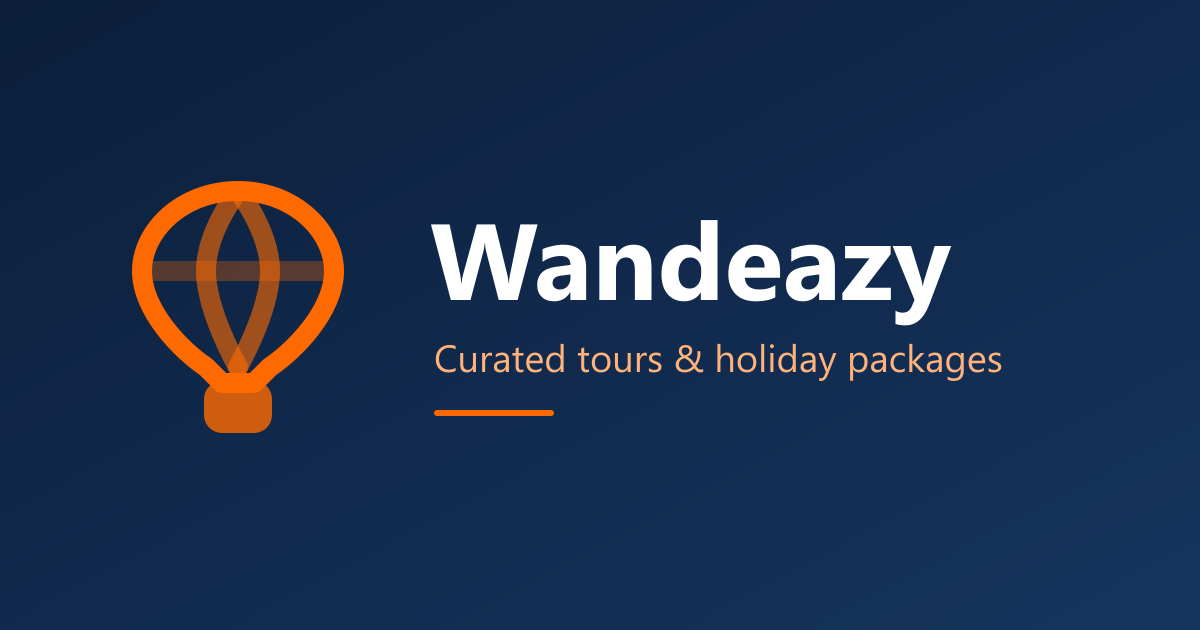
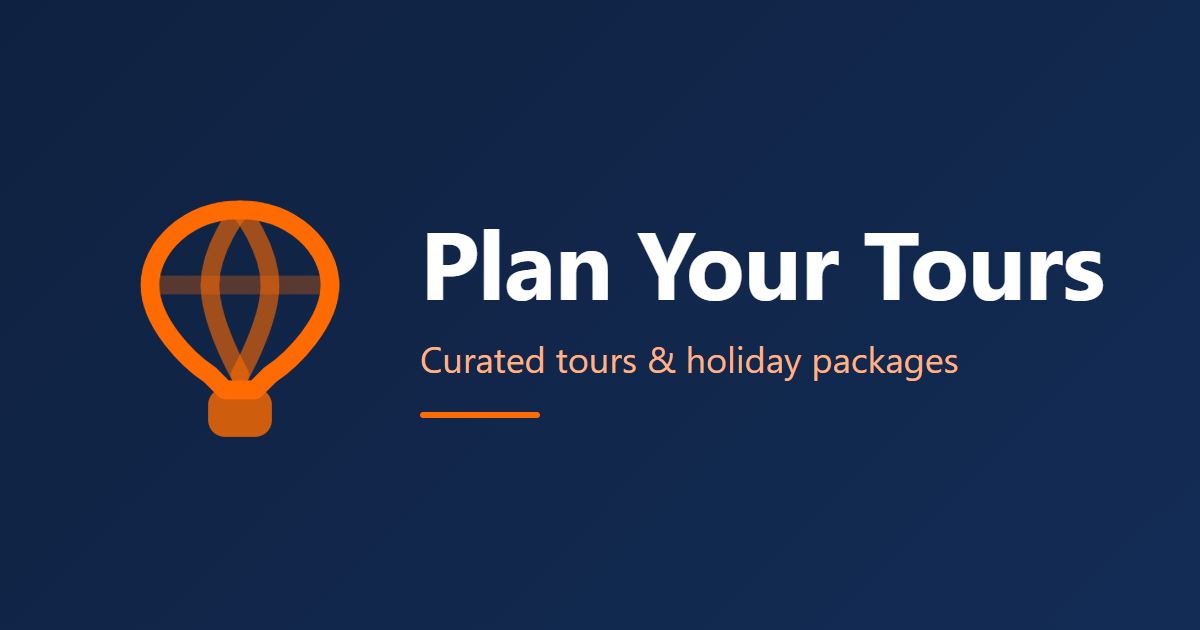
Rename the site to Plan Your Tours (planyourtours.com)
New name in every page title, description, legal text, email, payment window and the share image.
Logo text now comes from the APP/LOGO setting. Full link menu shows from 1280px wide so the longer name never collides.

diff --git a/client/scripts/prerender.ts b/client/scripts/prerender.ts
@@ -181,9 +181,9 @@ async function main() {
     pages.push({
         path: '/',
         title: 'Curated Tours & Holiday Packages',
-        description: 'Browse curated tours and holiday packages to destinations worldwide with Wandeazy. Compare day-by-day itineraries and inclusions, then book online securely.',
+        description: 'Browse curated tours and holiday packages to destinations worldwide with Plan Your Tours. Compare day-by-day itineraries and inclusions, then book online securely.',
         jsonLd: graph(websiteJsonLd()),
-        body: `<h1>Wandeazy: curated tours and holiday packages worldwide</h1>`
+        body: `<h1>Plan Your Tours: curated tours and holiday packages worldwide</h1>`
             + para('Browse curated tours and holiday packages, compare day-by-day itineraries and inclusions, then book online securely.')
             + section('Destinations', list(destinations.map((d) => link(destinationPath(d), d.name))))
             + section('Collections', list(collections.map((c) => link(collectionPath(c), c.name))))
@@ -194,7 +194,7 @@ async function main() {
     pages.push({
         path: '/tours',
         title: 'All Tours & Holiday Packages',
-        description: 'Compare every Wandeazy tour by destination, price, duration, travel style and traveller rating, then book online.',
+        description: 'Compare every tour by destination, price, duration, travel style and traveller rating, then book online.',
         jsonLd: tours.length ? graph(itemListJsonLd(tours.map((t) => ({ name: t.title, path: tourPath(t) })))) : undefined,
         body: `<h1>Find your next adventure</h1>${list(tours.map(tourLine))}`,
     });
@@ -231,7 +231,7 @@ async function main() {
     pages.push({
         path: '/destinations',
         title: 'Travel Destinations Worldwide',
-        description: 'Explore Wandeazy travel destinations around the world, each with its highlights, best time to visit and the tours you can book there.',
+        description: 'Explore travel destinations around the world, each with its highlights, best time to visit and the tours you can book there.',
         jsonLd: destinations.length ? graph(itemListJsonLd(destinations.map((d) => ({ name: d.name, path: destinationPath(d) })))) : undefined,
         body: `<h1>Explore the World</h1>${para('From iconic landmarks to hidden gems, discover the destinations that inspire wanderlust.')}`
             + list(destinations.map((d) => `${link(destinationPath(d), d.name)}${d.continent ? ` — ${esc(d.continent)}` : ''}`)),
@@ -261,7 +261,7 @@ async function main() {
     pages.push({
         path: '/collections',
         title: 'Tour Collections by Travel Style',
-        description: 'Hand-picked Wandeazy tour collections grouped by travel style, such as beach getaways, adventure and trekking, culture, luxury and honeymoons.',
+        description: 'Hand-picked tour collections grouped by travel style, such as beach getaways, adventure and trekking, culture, luxury and honeymoons.',
         jsonLd: collections.length ? graph(itemListJsonLd(collections.map((c) => ({ name: c.name, path: collectionPath(c) })))) : undefined,
         body: `<h1>Our Collections</h1>${list(collections.map((c) => `${link(collectionPath(c), c.name)}${c.description ? ` — ${esc(summarize(c.description, 140))}` : ''}`))}`,
     });
@@ -272,7 +272,7 @@ async function main() {
         pages.push({
             path: collectionPath(c),
             title: `${c.name} Tours`,
-            description: summarize(c.description || `${c.name}: a hand-picked collection of Wandeazy tours.`),
+            description: summarize(c.description || `${c.name}: a hand-picked collection of our tours.`),
             image: c.coverImage,
             imageAlt: c.name,
             jsonLd: graph(collectionJsonLd({ ...c, tours: cTours }), breadcrumbJsonLd([{ name: 'Collections', path: '/collections' }, { name: c.name, path: collectionPath(c) }])),
@@ -283,7 +283,7 @@ async function main() {
     pages.push({
         path: '/blog',
         title: 'Travel Magazine: Guides & Tips',
-        description: 'Travel guides, packing lists, budget tips and food ideas from the Wandeazy travel magazine, written to help you plan your next trip.',
+        description: 'Travel guides, packing lists, budget tips and food ideas from the Plan Your Tours travel magazine, written to help you plan your next trip.',
         jsonLd: posts.length ? graph(itemListJsonLd(posts.map((p) => ({ name: p.title, path: articlePath(p) })))) : undefined,
         body: `<h1>Travel Magazine</h1>${para('Stories, tips, and guides to inspire your next adventure.')}`
             + list(posts.map((p) => `${link(articlePath(p), p.title)}${p.excerpt ? ` — ${esc(summarize(p.excerpt, 160))}` : ''}`)),
@@ -312,8 +312,8 @@ async function main() {
     pages.push({
         path: '/about',
         title: 'About Us',
-        description: 'Who Wandeazy is, how we put together our tours and what you can expect when you book a trip with us.',
-        body: `<h1>${esc(about.heroHeadline || 'About Wandeazy')}</h1>${para(about.heroSubtext)}`
+        description: 'Who we are, how we put together our tours and what you can expect when you book a trip with us.',
+        body: `<h1>${esc(about.heroHeadline || 'About Plan Your Tours')}</h1>${para(about.heroSubtext)}`
             + section('Our Story', para(about.storyParagraph1) + para(about.storyParagraph2))
             + section('What we stand for', (about.values ?? []).map((v) => `<h3>${esc(v.title)}</h3>${para(v.description)}`).join('')),
     });
@@ -321,7 +321,7 @@ async function main() {
     pages.push({
         path: '/contact',
         title: 'Contact Us',
-        description: 'Ask about a booking or plan a custom trip with Wandeazy. Send a message or email us and a travel specialist replies within 24 hours.',
+        description: 'Ask about a booking or plan a custom trip with Plan Your Tours. Send a message or email us and a travel specialist replies within 24 hours.',
         body: `<h1>How can we help?</h1>${para('Plan a trip, ask about a booking or send us a question. A travel specialist replies within 24 hours.')}`
             + list([
                 ...(settings.contactEmail ? [`Email: ${link(`mailto:${settings.contactEmail}`, settings.contactEmail)}`] : []),
@@ -348,14 +348,14 @@ async function main() {
     pages.push({
         path: '/faq',
         title: 'Frequently Asked Questions',
-        description: 'How to book a Wandeazy tour, free cancellation up to 24 hours before departure, accepted payments, what tour prices include, travel insurance and custom itineraries.',
+        description: 'How to book a tour with Plan Your Tours, free cancellation up to 24 hours before departure, accepted payments, what tour prices include, travel insurance and custom itineraries.',
         jsonLd: graph(faqJsonLd(faqs)),
         body: `<h1>Frequently Asked Questions</h1>${para('Everything you need to know before you travel.')}${faqHtml.replace(/<h3>/g, '<h2>').replace(/<\/h3>/g, '</h2>')}`,
     });
 
     for (const [p, title, description, sections] of [
-        ['/privacy', 'Privacy Policy', 'How Wandeazy collects, uses, shares and protects your personal information when you browse, sign up or book a tour.', PRIVACY_SECTIONS],
-        ['/terms', 'Terms of Service', 'The terms for using Wandeazy and booking tours, including payments, cancellations and refunds, and your responsibilities as a traveller.', TERMS_SECTIONS],
+        ['/privacy', 'Privacy Policy', 'How Plan Your Tours collects, uses, shares and protects your personal information when you browse, sign up or book a tour.', PRIVACY_SECTIONS],
+        ['/terms', 'Terms of Service', 'The terms for using Plan Your Tours and booking tours, including payments, cancellations and refunds, and your responsibilities as a traveller.', TERMS_SECTIONS],
     ] as const) {
         pages.push({
             path: p, title, description,
@@ -366,14 +366,14 @@ async function main() {
     if (settings.features?.flights) {
         pages.push({
             path: '/flights', title: 'Flights',
-            description: 'Search and book flights across India and around the world, linked to your Wandeazy trip.',
-            body: `<h1>Flights</h1>${para('Every airline in one search. Line your flights up with your Wandeazy tour.')}`,
+            description: 'Search and book flights across India and around the world, linked to your trip.',
+            body: `<h1>Flights</h1>${para('Every airline in one search. Line your flights up with your tour.')}`,
         });
     }
     if (settings.features?.hotels) {
         pages.push({
             path: '/hotels', title: 'Hotels',
-            description: 'Hand-picked hotels across India and the world, right next to your Wandeazy tour.',
+            description: 'Hand-picked hotels across India and the world, right next to your tour.',
             body: `<h1>Hotels</h1>${para('From palace havelis to beachfront villas, find a stay right next to your tour.')}`,
         });
     }

diff --git a/client/src/components/Navbar.tsx b/client/src/components/Navbar.tsx
@@ -159,12 +159,12 @@ export const Navbar = () => {
 
             <nav aria-label="Main" className={cn(navClasses, "relative")}>
                 <div className={containerClasses}>
-                    <div className="flex items-center gap-4 xl:gap-8 min-w-0">
+                    <div className="flex items-center gap-4 xl:gap-6 min-w-0">
                         <Logo light={!isScrolled && isTransparentHeader} className="scale-90 md:scale-100" />
 
                         {/* Desktop Menu */}
                         <div className={cn(
-                            "hidden lg:flex items-center gap-0.5 xl:gap-1 rounded-full p-1 transition-all duration-300",
+                            "hidden xl:flex items-center gap-0.5 xl:gap-1 rounded-full p-1 transition-all duration-300",
                             isOverlay
                                 ? "bg-white/10 backdrop-blur-md border border-white/25 shadow-lg shadow-black/10"
                                 : "bg-transparent border border-transparent"
@@ -198,7 +198,7 @@ export const Navbar = () => {
 
                         {/* Right Actions */}
                         <div className={cn(
-                            "hidden lg:flex items-center gap-1.5 xl:gap-2",
+                            "hidden xl:flex items-center gap-1.5 xl:gap-2",
                             isOverlay && "[&_button]:[text-shadow:0_1px_2px_rgba(0,0,0,0.35)]"
                         )}>
                             {/* Trip builder: always on offer, whatever links the admin sets */}
@@ -319,7 +319,7 @@ export const Navbar = () => {
                             aria-expanded={isMobileMenuOpen}
                             aria-controls="mobile-menu"
                             className={cn(
-                                "lg:hidden p-2 rounded-full transition-colors",
+                                "xl:hidden p-2 rounded-full transition-colors",
                                 isOverlay ? "hover:bg-white/15" : "hover:bg-slate-100"
                             )}
                             onClick={() => setIsMobileMenuOpen(!isMobileMenuOpen)}
@@ -337,7 +337,7 @@ export const Navbar = () => {
                             initial={{ opacity: 0, y: -20, scale: 0.95 }}
                             animate={{ opacity: 1, y: 0, scale: 1 }}
                             exit={{ opacity: 0, y: -20, scale: 0.95 }}
-                            className="absolute top-full mt-2 left-4 right-4 max-h-[calc(100dvh-6rem)] overflow-y-auto bg-white/95 backdrop-blur-xl shadow-2xl rounded-3xl border border-white/20 lg:hidden"
+                            className="absolute top-full mt-2 left-4 right-4 max-h-[calc(100dvh-6rem)] overflow-y-auto bg-white/95 backdrop-blur-xl shadow-2xl rounded-3xl border border-white/20 xl:hidden"
                         >
                             <div className="p-5 flex flex-col gap-1">
                                 {/* User header */}

diff --git a/client/src/pages/About.tsx b/client/src/pages/About.tsx
@@ -19,8 +19,8 @@ export const AboutPage = () => {
 
     const heroImage = about?.heroImage || "https://images.unsplash.com/photo-1488646953014-85cb44e25828?w=1600&q=80";
     const heroHeadline = about?.heroHeadline || "We turn wanderlust into unforgettable journeys";
-    const heroSubtext = about?.heroSubtext || "Wandeazy was born from a simple belief: extraordinary travel should be effortless, personal, and within reach for everyone.";
-    const storyParagraph1 = about?.storyParagraph1 || "Wandeazy puts together tours to destinations around the world and lets you book them online in a few steps, with secure payment and free cancellation up to 24 hours before departure.";
+    const heroSubtext = about?.heroSubtext || "Plan Your Tours was born from a simple belief: extraordinary travel should be effortless, personal, and within reach for everyone.";
+    const storyParagraph1 = about?.storyParagraph1 || "Plan Your Tours puts together tours to destinations around the world and lets you book them online in a few steps, with secure payment and free cancellation up to 24 hours before departure.";
     const storyParagraph2 = about?.storyParagraph2 || "Every tour page shows the day-by-day itinerary and exactly what is and isn't included, so you know what you are booking. Want something different? Tell us and we'll plan a custom trip with you.";
     // Admin-written stats win; otherwise real numbers, never made-up ones
     const stats = (about?.stats?.length ?? 0) > 0 ? about!.stats : liveStats(highlights?.stats);
@@ -36,7 +36,7 @@ export const AboutPage = () => {
         <div className="bg-background min-h-screen">
             <PageTitle
                 title="About Us"
-                description="Who Wandeazy is, how we put together our tours and what you can expect when you book a trip with us."
+                description="Who we are, how we put together our tours and what you can expect when you book a trip with us."
             />
 
             {/* Hero */}

diff --git a/server/src/config/index.js b/server/src/config/index.js
@@ -73,9 +73,9 @@ const config = {
         secure:      true,
         user:        'resend',
         apiKey:      e.RESEND_API_KEY,
-        fromName:    e.EMAIL_FROM_NAME       || 'Wandeazy',
+        fromName:    e.EMAIL_FROM_NAME       || 'Plan Your Tours',
         // Must be on the domain verified in Resend
-        fromAddress: e.EMAIL_FROM_ADDRESS    || 'noreply@wandeazy.com',
+        fromAddress: e.EMAIL_FROM_ADDRESS    || 'noreply@planyourtours.com',
         // Where customer replies go (a real inbox). Blank = replies go to the from address.
         replyTo:     e.EMAIL_REPLY_TO        || '',
         brandColor:  e.EMAIL_BRAND_COLOR     || '#0F172A',
@@ -91,7 +91,7 @@ const config = {
         keySecret:     e.RAZORPAY_KEY_SECRET      || '',
         webhookSecret: e.RAZORPAY_WEBHOOK_SECRET  || '',
         // Shown at the top of the Razorpay payment window
-        brandName:     e.RAZORPAY_BRAND_NAME      || 'Wandeazy',
+        brandName:     e.RAZORPAY_BRAND_NAME      || 'Plan Your Tours',
     },
 
     // Stripe (Developers → API keys / Webhooks). The publishable key reaches the browser through the API.
@@ -141,7 +141,7 @@ const config = {
 
     mock: {
         userId:      e.MOCK_USER_ID           || 'mock-user-id',
-        email:       e.MOCK_USER_EMAIL        || 'test@wandeazy.com',
+        email:       e.MOCK_USER_EMAIL        || 'test@planyourtours.com',
         displayName: e.MOCK_USER_DISPLAY_NAME || 'Test User',
         googleId:    e.MOCK_GOOGLE_ID         || 'mock-google-id',
     },

diff --git a/client/src/pages/Contact.tsx b/client/src/pages/Contact.tsx
@@ -102,7 +102,7 @@ export const ContactPage = () => {
         <div className="bg-background min-h-screen pt-24 pb-16">
             <PageTitle
                 title="Contact Us"
-                description="Ask about a booking or plan a custom trip with Wandeazy. Send a message or email us and a travel specialist replies within 24 hours."
+                description="Ask about a booking or plan a custom trip with Plan Your Tours. Send a message or email us and a travel specialist replies within 24 hours."
             />
             <Container>
                 <div className="text-center max-w-2xl mx-auto mb-12">
@@ -128,8 +128,8 @@ export const ContactPage = () => {
                         <ContactItem
                             icon={Mail}
                             label="Email us"
-                            value={settings?.contactEmail || 'hello@wandeazy.com'}
-                            href={`mailto:${settings?.contactEmail || 'hello@wandeazy.com'}`}
+                            value={settings?.contactEmail || 'hello@planyourtours.com'}
+                            href={`mailto:${settings?.contactEmail || 'hello@planyourtours.com'}`}
                         />
                         <div className="rounded-2xl border border-dashed border-slate-200 p-6 text-sm text-muted-foreground">
                             Looking for answers right away? The <Link to="/faq" className="text-brand-orange font-medium hover:underline">FAQ</Link> covers

diff --git a/client/src/lib/legal.ts b/client/src/lib/legal.ts
@@ -36,7 +36,7 @@ export const PRIVACY_SECTIONS = [
 export const TERMS_SECTIONS = [
     {
         title: "1. Acceptance of Terms",
-        body: "By accessing or using Wandeazy, you agree to be bound by these Terms of Service. If you do not agree, please do not use our services.",
+        body: "By accessing or using Plan Your Tours, you agree to be bound by these Terms of Service. If you do not agree, please do not use our services.",
     },
     {
         title: "2. Bookings & Payments",
@@ -52,11 +52,11 @@ export const TERMS_SECTIONS = [
     },
     {
         title: "5. Limitation of Liability",
-        body: "Wandeazy acts as an intermediary between you and travel operators. We are not liable for acts, errors, or omissions of third-party providers beyond our reasonable control.",
+        body: "Plan Your Tours acts as an intermediary between you and travel operators. We are not liable for acts, errors, or omissions of third-party providers beyond our reasonable control.",
     },
     {
         title: "6. Intellectual Property",
-        body: "All content on this platform, including text, images, and branding, is the property of Wandeazy or its licensors and may not be reproduced without permission.",
+        body: "All content on this platform, including text, images, and branding, is the property of Plan Your Tours or its licensors and may not be reproduced without permission.",
     },
     {
         title: "7. Changes to Terms",

diff --git a/client/src/pages/BookingReceipt.tsx b/client/src/pages/BookingReceipt.tsx
@@ -37,12 +37,12 @@ function downloadCalendarFile(booking: Booking, tour: Tour | null) {
     const day = (d: Date) => format(d, "yyyyMMdd");
     const text = (s: string) => s.replace(/[\\,;]/g, (c) => `\\${c}`).replace(/\n/g, "\\n");
     const ics = [
-        "BEGIN:VCALENDAR", "VERSION:2.0", "PRODID:-//Wandeazy//Booking//EN", "BEGIN:VEVENT",
-        `UID:${booking._id}@wandeazy`,
+        "BEGIN:VCALENDAR", "VERSION:2.0", "PRODID:-//PlanYourTours//Booking//EN", "BEGIN:VEVENT",
+        `UID:${booking._id}@planyourtours.com`,
         `DTSTAMP:${format(new Date(), "yyyyMMdd'T'HHmmss")}`,
         `DTSTART;VALUE=DATE:${day(start)}`,
         `DTEND;VALUE=DATE:${day(end)}`,
-        `SUMMARY:${text(tour?.title ?? "Wandeazy trip")}`,
+        `SUMMARY:${text(tour?.title ?? "Your trip")}`,
         `LOCATION:${text(tour?.location ?? "")}`,
         `DESCRIPTION:${text(`Booking ${bookingReference(booking._id)} · ${booking.numberOfTravelers} traveller(s)`)}`,
         "END:VEVENT", "END:VCALENDAR",
@@ -50,7 +50,7 @@ function downloadCalendarFile(booking: Booking, tour: Tour | null) {
     const url = URL.createObjectURL(new Blob([ics], { type: "text/calendar" }));
     const a = document.createElement("a");
     a.href = url;
-    a.download = `wandeazy-${bookingReference(booking._id)}.ics`;
+    a.download = `planyourtours-${bookingReference(booking._id)}.ics`;
     a.click();
     URL.revokeObjectURL(url);
 }

diff --git a/client/src/pages/WriteArticle.tsx b/client/src/pages/WriteArticle.tsx
@@ -128,7 +128,7 @@ export const WriteArticle = () => {
                         </div>
                         <h1 className="text-3xl font-display font-bold text-brand-blue mb-3">Unlock Article Writing</h1>
                         <p className="text-muted-foreground mb-10 max-w-md mx-auto">
-                            Contribute to the Wandeazy community by sharing your travel stories. Complete the requirements below to unlock the writer feature.
+                            Contribute to the Plan Your Tours community by sharing your travel stories. Complete the requirements below to unlock the writer feature.
                         </p>
 
                         <div className="space-y-5 text-left max-w-sm mx-auto mb-10">
@@ -195,7 +195,7 @@ export const WriteArticle = () => {
                                         {(completedBookings ?? 0) >= 1 ? "Done!" : "0 / 1"}
                                     </span>
                                 </div>
-                                <p className="text-xs text-muted-foreground">Book and complete any tour through Wandeazy.</p>
+                                <p className="text-xs text-muted-foreground">Book and complete any tour through Plan Your Tours.</p>
                             </div>
                         </div>
 

diff --git a/client/src/components/ui/Logo.tsx b/client/src/components/ui/Logo.tsx
@@ -1,10 +1,11 @@
 import { Link } from "react-router-dom";
 import { cn } from "@/lib/utils";
+import { config } from "@/config";
 
 export const Logo = ({ className, light = false }: { className?: string; light?: boolean }) => {
     return (
         <Link to="/" className={cn("flex items-center gap-2 group", className)}>
-            {/* Thrillophilia-style Hot Air Balloon Icon */}
+            {/* Hot air balloon mark */}
             <div className="relative w-9 h-9 flex items-center justify-center">
                 <svg
                     viewBox="0 0 32 32"
@@ -31,10 +32,10 @@ export const Logo = ({ className, light = false }: { className?: string; light?:
 
             {/* Clean, Bold Brand Text */}
             <span className={cn(
-                "font-sans font-extrabold text-2xl tracking-normal",
+                "font-sans font-extrabold text-xl sm:text-2xl xl:text-xl tracking-normal whitespace-nowrap",
                 light ? "text-white" : "text-brand-blue"
             )}>
-                Wandeazy
+                {config.app.logoText}
             </span>
         </Link>
     );

diff --git a/client/src/components/home/PromotionalCarousel.tsx b/client/src/components/home/PromotionalCarousel.tsx
@@ -108,7 +108,7 @@ export const PromotionalCarousel = () => {
                                     <div className="relative lg:col-span-5 flex flex-col justify-center p-8 md:p-12 lg:p-16 text-left">
                                         <div className="space-y-6 animate-in fade-in slide-in-from-right-8 duration-700 delay-200">
                                             <div className="inline-flex items-center gap-2 bg-white/5 border border-white/10 px-4 py-1.5 rounded-full text-sm font-medium text-white w-fit">
-                                                <span className="font-bold tracking-wider uppercase opacity-60">Wandeazy</span>
+                                                <span className="font-bold tracking-wider uppercase opacity-60">Plan Your Tours</span>
                                                 <span className="opacity-40">×</span>
                                                 <span className={cn("font-bold tracking-wide", slide.accentColor)}>{slide.partner}</span>
                                             </div>

diff --git a/client/src/pages/Home.tsx b/client/src/pages/Home.tsx
@@ -18,10 +18,10 @@ export const Home = () => {
         <div className="bg-background min-h-screen">
             <PageTitle
                 title="Curated Tours & Holiday Packages"
-                description="Browse curated tours and holiday packages to destinations worldwide with Wandeazy. Compare day-by-day itineraries and inclusions, then book online securely."
+                description="Browse curated tours and holiday packages to destinations worldwide with Plan Your Tours. Compare day-by-day itineraries and inclusions, then book online securely."
                 jsonLd={graph(websiteJsonLd())}
             />
-            <h1 className="sr-only">Wandeazy: curated tours and holiday packages worldwide</h1>
+            <h1 className="sr-only">Plan Your Tours: curated tours and holiday packages worldwide</h1>
             <Hero />
             <FeatureGate any>
                 <TravelSearchTabs />

diff --git a/client/src/pages/BookingPage.tsx b/client/src/pages/BookingPage.tsx
@@ -485,7 +485,7 @@ export const BookingPage = () => {
                                     <CheckCircle2 className="w-12 h-12" />
                                 </div>
                                 <h2 className="text-3xl font-bold font-display mb-4">You're Booked!</h2>
-                                <p className="text-muted-foreground mb-2 text-lg">Your Wandeazy journey begins now.</p>
+                                <p className="text-muted-foreground mb-2 text-lg">Your journey begins now.</p>
                                 <p className="text-muted-foreground mb-8">
                                     We'll email your confirmation to {contactInfo.email}.
                                     {confirmed && <> Total charged: <span className="font-semibold text-brand-blue">{formatMoney(confirmed.totalAmount, confirmed.currency)}</span>.</>}
